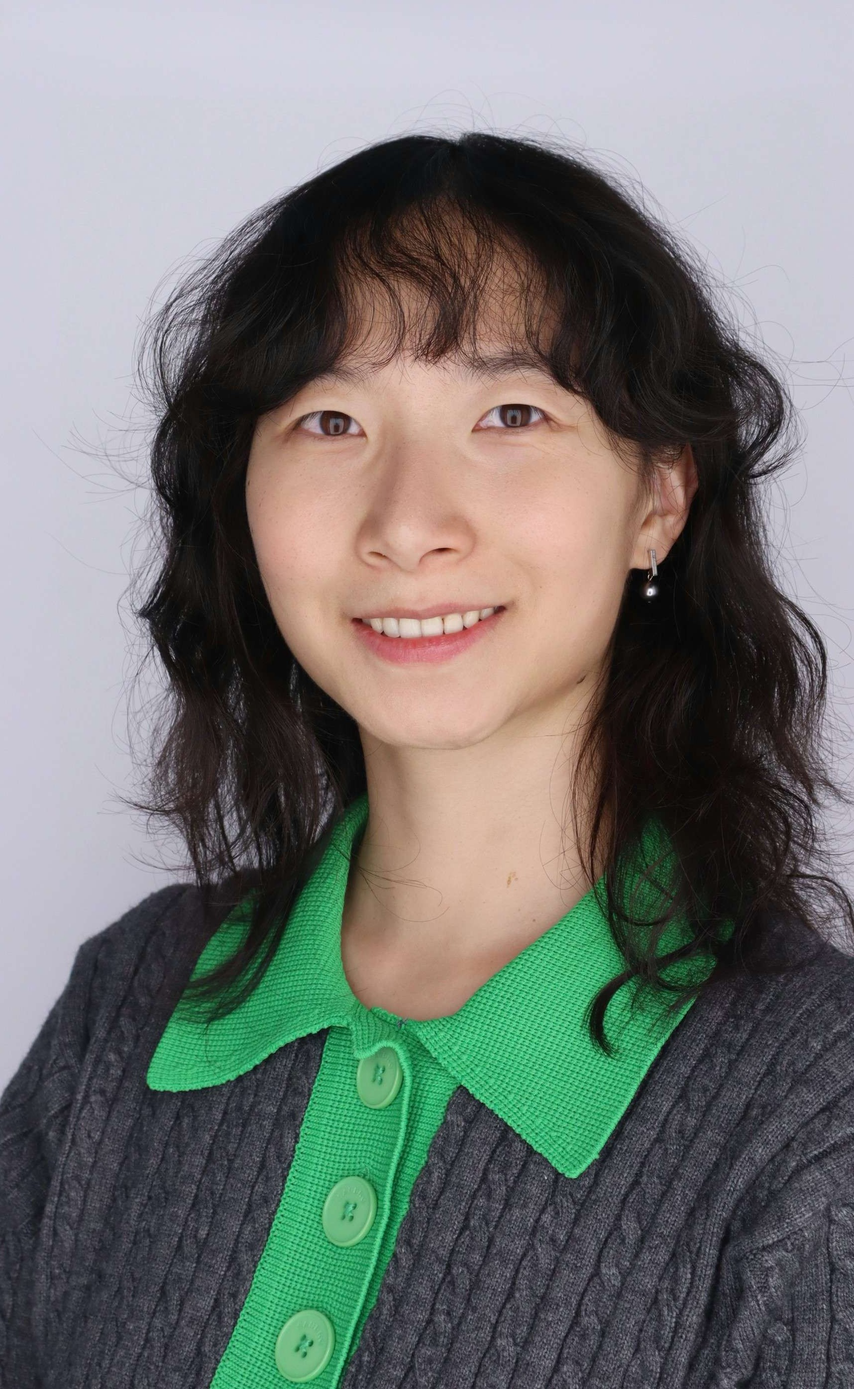
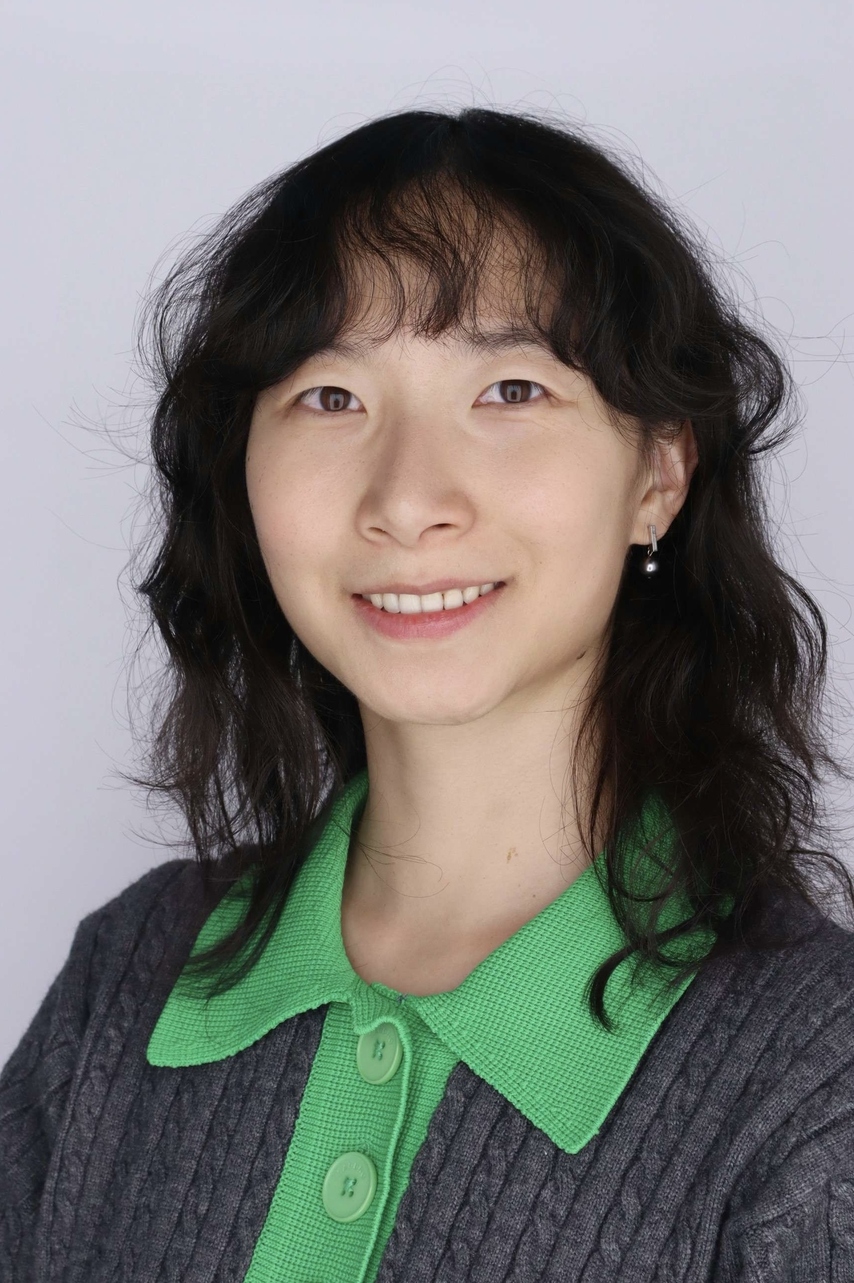
Update profile photo and layout

Changed region(s): [[0.0, 0.062, 1.0, 1.0]]

diff --git a/app/page.tsx b/app/page.tsx
@@ -10,7 +10,7 @@ export default function Home() {
          <img
   src="/profile.jpg"
   alt="Anhui Huang"
-  className="w-[90%] h-auto md:h-[440px] md:object-cover md:object-top border-2"
+  className="w-[70%] h-auto ml-auto mr-0md:object-top border-2"
 />
         </div>
 
